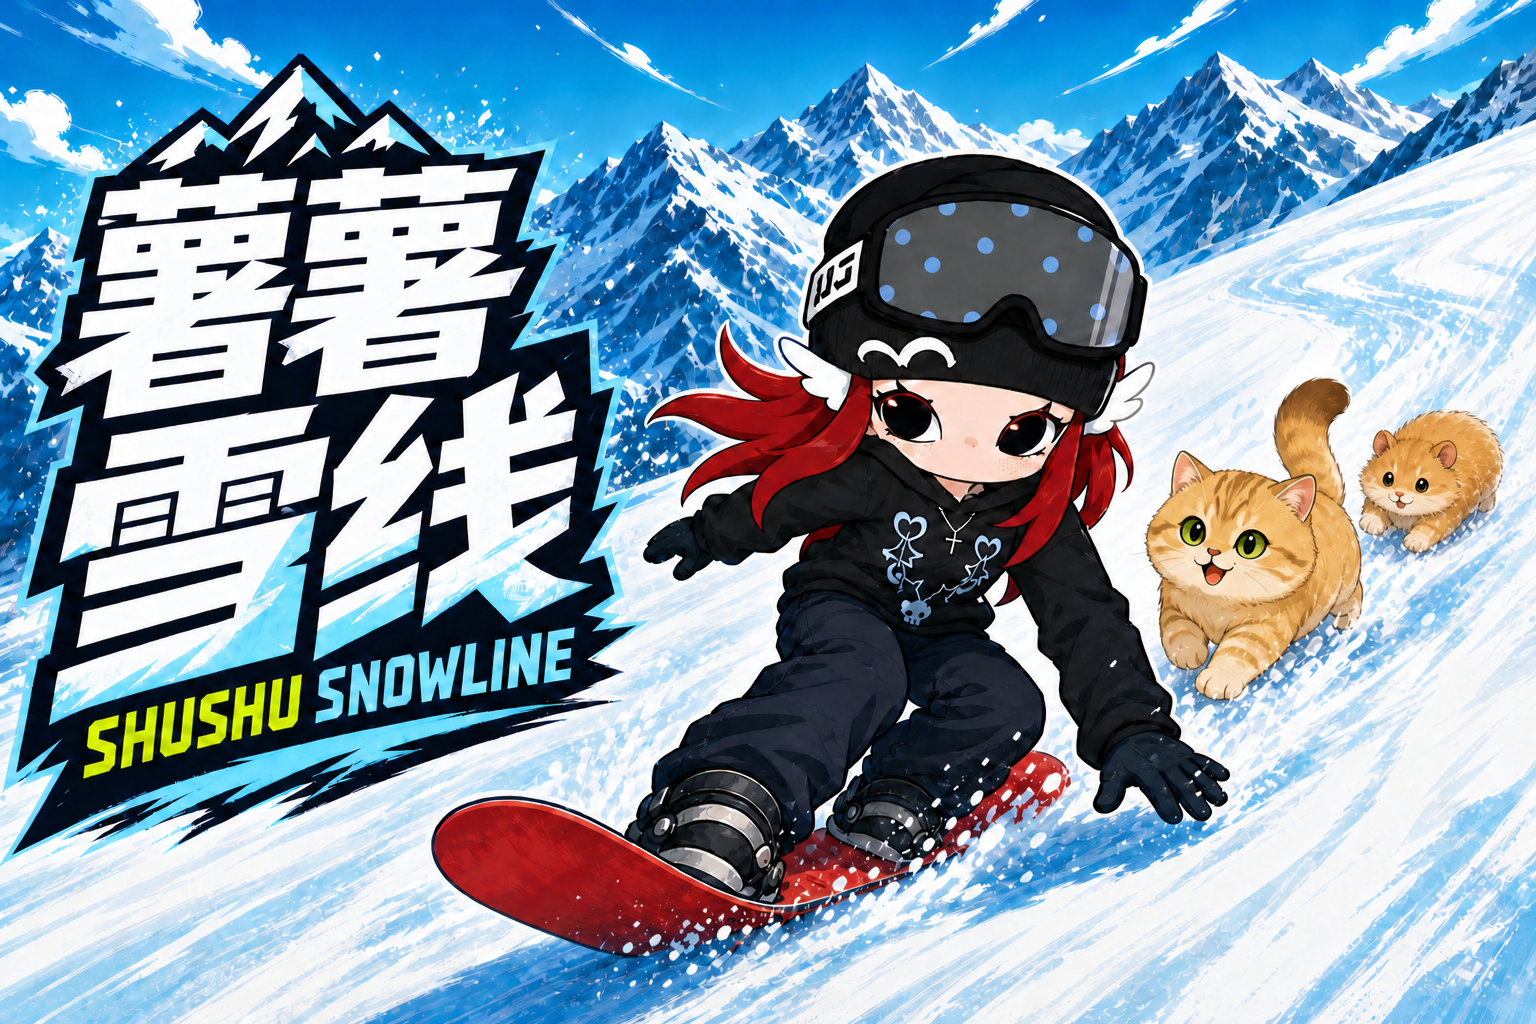
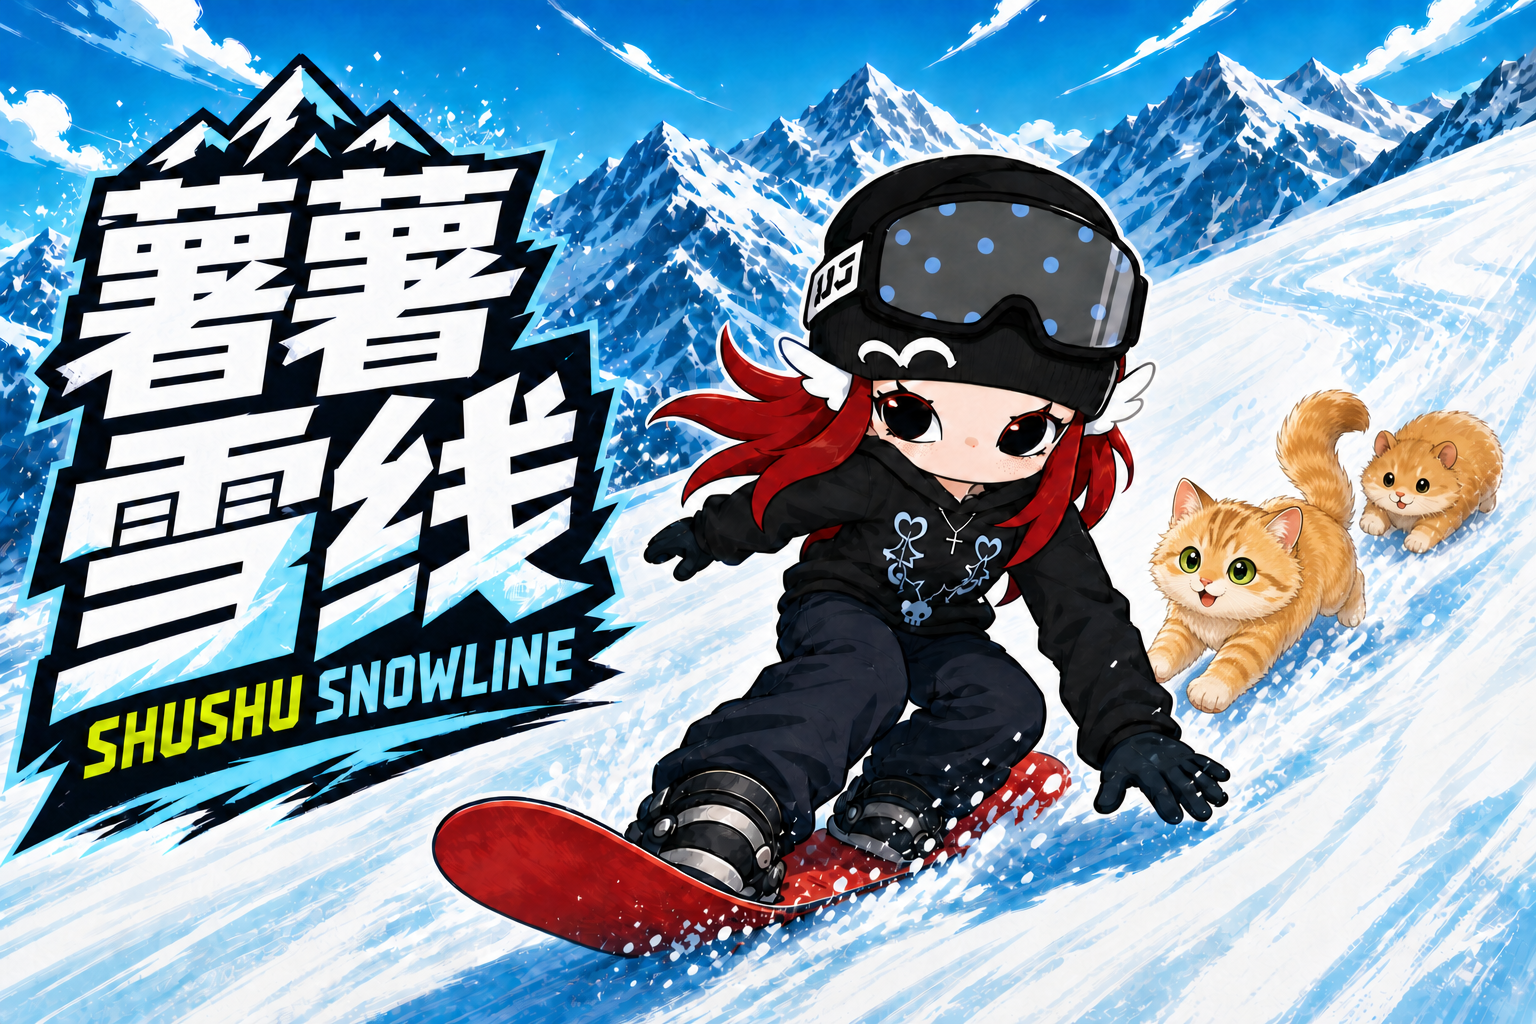
Unify golden cat pet artwork

diff --git a/web/app/game/SnowGame.tsx b/web/app/game/SnowGame.tsx
@@ -1088,7 +1088,8 @@ function drawGoldenCat(
   ctx.ellipse(1, 23 + hop, 22, 6.5, 0, 0, Math.PI * 2);
   ctx.fill();
 
-  // Thick upright tail and rounded silhouette mirror Cheche on the poster.
+  // A thick feathered tail and plush silhouette match Cheche's illustrated
+  // shop portrait while remaining readable on the scaled native canvas.
   ctx.strokeStyle = "#6f4827";
   ctx.lineWidth = 13;
   ctx.lineCap = "round";
@@ -1096,7 +1097,7 @@ function drawGoldenCat(
   ctx.moveTo(-12, 3);
   ctx.bezierCurveTo(-29, -3, -28, -25, -13, -29);
   ctx.stroke();
-  ctx.strokeStyle = "#d6a356";
+  ctx.strokeStyle = "#e2ad5e";
   ctx.lineWidth = 8.5;
   ctx.beginPath();
   ctx.moveTo(-12, 2);
@@ -1111,22 +1112,49 @@ function drawGoldenCat(
     ctx.stroke();
   }
 
-  const coat = ctx.createLinearGradient(-14, -18, 14, 20);
-  coat.addColorStop(0, "#b77836");
-  coat.addColorStop(0.38, "#d89f50");
-  coat.addColorStop(0.72, "#efc879");
-  coat.addColorStop(1, "#f7dda1");
+  const coat = ctx.createLinearGradient(-18, -18, 18, 22);
+  coat.addColorStop(0, "#c8873b");
+  coat.addColorStop(0.38, "#e2aa59");
+  coat.addColorStop(0.72, "#f2cb7d");
+  coat.addColorStop(1, "#fae4ae");
   ctx.fillStyle = coat;
   ctx.strokeStyle = "#704729";
-  ctx.lineWidth = 2.8;
+  ctx.lineWidth = 2.6;
   ctx.beginPath();
-  ctx.ellipse(-3, 2, 20, 17.5, -0.2, 0, Math.PI * 2);
+  ctx.moveTo(-24, 5);
+  ctx.quadraticCurveTo(-24, -5, -17, -10);
+  ctx.lineTo(-18, -15);
+  ctx.lineTo(-11, -12);
+  ctx.lineTo(-7, -17);
+  ctx.lineTo(-2, -12);
+  ctx.quadraticCurveTo(8, -11, 13, -3);
+  ctx.lineTo(17, 0);
+  ctx.lineTo(14, 5);
+  ctx.lineTo(18, 10);
+  ctx.lineTo(12, 12);
+  ctx.lineTo(10, 18);
+  ctx.lineTo(3, 16);
+  ctx.lineTo(-3, 20);
+  ctx.lineTo(-7, 16);
+  ctx.lineTo(-14, 18);
+  ctx.lineTo(-15, 12);
+  ctx.lineTo(-21, 11);
+  ctx.closePath();
   ctx.fill();
   ctx.stroke();
 
   ctx.fillStyle = "#fff0c9";
   ctx.beginPath();
-  ctx.ellipse(-1, 10, 12, 8, -0.15, 0, Math.PI * 2);
+  ctx.moveTo(-12, 8);
+  ctx.quadraticCurveTo(-6, 3, 1, 6);
+  ctx.lineTo(6, 5);
+  ctx.lineTo(5, 10);
+  ctx.lineTo(9, 13);
+  ctx.lineTo(3, 14);
+  ctx.lineTo(-1, 18);
+  ctx.lineTo(-5, 14);
+  ctx.lineTo(-11, 15);
+  ctx.closePath();
   ctx.fill();
 
   ctx.strokeStyle = "#9a652f";
@@ -1156,9 +1184,24 @@ function drawGoldenCat(
   ctx.fill();
   ctx.stroke();
 
-  ctx.fillStyle = "#e7b761";
+  ctx.fillStyle = "#edbe6c";
   ctx.beginPath();
-  ctx.ellipse(10, 8, 15.5, 14.5, 0.15, 0, Math.PI * 2);
+  ctx.moveTo(-2, 8);
+  ctx.lineTo(0, 2);
+  ctx.quadraticCurveTo(2, -3, 8, -5);
+  ctx.lineTo(12, -8);
+  ctx.lineTo(15, -4);
+  ctx.quadraticCurveTo(22, -1, 24, 6);
+  ctx.lineTo(28, 9);
+  ctx.lineTo(24, 13);
+  ctx.lineTo(25, 18);
+  ctx.lineTo(19, 19);
+  ctx.lineTo(15, 23);
+  ctx.lineTo(11, 20);
+  ctx.lineTo(5, 22);
+  ctx.lineTo(4, 17);
+  ctx.lineTo(-1, 14);
+  ctx.closePath();
   ctx.fill();
   ctx.stroke();
 
@@ -1166,6 +1209,16 @@ function drawGoldenCat(
   ctx.beginPath();
   ctx.ellipse(12, 14, 10, 7, 0.15, 0, Math.PI * 2);
   ctx.fill();
+
+  ctx.strokeStyle = "#9b6531";
+  ctx.lineWidth = 1.8;
+  ctx.lineCap = "round";
+  for (const [x, y, dx] of [[5, 0, 4], [10, -2, 3], [15, 0, 3]] as const) {
+    ctx.beginPath();
+    ctx.moveTo(x, y);
+    ctx.quadraticCurveTo(x + dx * 0.45, y + 3, x + dx, y + 5);
+    ctx.stroke();
+  }
 
   drawPetEye(ctx, 4.5, 6.4, 3.1, 4.1, "#9bcf49");
   drawPetEye(ctx, 15, 6.8, 3.6, 4.5, "#9bcf49");

diff --git a/web/app/game/ShopModal.tsx b/web/app/game/ShopModal.tsx
@@ -20,38 +20,15 @@ const CATEGORIES: Array<{ id: ShopCategory; label: string }> = [
 ];
 
 function PetPortrait({ id }: { id: string }) {
-  const hamster = id === "pet-digger";
-  if (hamster) {
-    return (
-      // The shared component also runs inside Capacitor, where next/image is
-      // unavailable; this local static asset is intentionally a plain image.
-      // eslint-disable-next-line @next/next/no-img-element
-      <img
-        className="pet-portrait-image"
-        src="/pets/digger-golden-hamster.png"
-        alt=""
-        aria-hidden="true"
-      />
-    );
-  }
+  const source =
+    id === "pet-digger"
+      ? "/pets/digger-golden-hamster.png"
+      : "/pets/car-golden-shaded-cat.png";
   return (
-    <span className="pet-portrait is-golden-cat">
-      <span className="pet-tail" />
-      <span className="pet-body">
-        <span className="pet-stripe pet-stripe-one" />
-        <span className="pet-stripe pet-stripe-two" />
-      </span>
-      <span className="pet-head">
-        <span className="pet-ear pet-ear-left" />
-        <span className="pet-ear pet-ear-right" />
-        <span className="pet-face-patch" />
-        <span className="pet-eye pet-eye-left" />
-        <span className="pet-eye pet-eye-right" />
-        <span className="pet-nose" />
-      </span>
-      <span className="pet-paw pet-paw-left" />
-      <span className="pet-paw pet-paw-right" />
-    </span>
+    // The shared component also runs inside Capacitor, where next/image is
+    // unavailable; these local static assets intentionally use a plain image.
+    // eslint-disable-next-line @next/next/no-img-element
+    <img className="pet-portrait-image" src={source} alt="" aria-hidden="true" />
   );
 }
 

diff --git a/web/public/sw.js b/web/public/sw.js
@@ -1,4 +1,4 @@
-const CACHE_VERSION = "shushu-snowline-v2";
+const CACHE_VERSION = "shushu-snowline-v3";
 const CORE_ASSETS = [
   "/",
   "/manifest.webmanifest",
@@ -6,7 +6,8 @@ const CORE_ASSETS = [
   "/icons/icon-192.png",
   "/icons/icon-512.png",
   "/icons/icon-512-maskable.png",
-  "/pets/digger-golden-hamster.png"
+  "/pets/digger-golden-hamster.png",
+  "/pets/car-golden-shaded-cat.png"
 ];
 
 self.addEventListener("install", (event) => {

diff --git a/web/app/game/shop.ts b/web/app/game/shop.ts
@@ -407,9 +407,9 @@ export const SHOP_ITEMS: ShopItem[] = [
     name: "车车",
     category: "pet",
     price: 520,
-    description: "金渐层猫 · 跟随时开局获得一次护盾",
-    color: "#d9ad67",
-    accent: "#70543d",
+    description: "毛茸茸金渐层幼猫 · 跟随时开局获得一次护盾",
+    color: "#e2ad5e",
+    accent: "#fff0ce",
   },
 ];
 

diff --git a/spec.md b/spec.md
@@ -1137,3 +1137,30 @@ D:\AI\snow-repo\
 2. 商城图片、文字描述和游戏内挖挖机都明确呈现为毛茸茸的金丝熊。
 3. 挖挖机的 +25% 薯薯币能力、购买状态和跟随状态保持兼容。
 4. 手机版宠物身后不再出现连续小圆点，改为柔和、连续且短促的雪面划痕。
+
+## 50. 车车金渐层统一卡通形象
+
+### 50.1 双宠物统一视觉语言
+
+- 车车改为与第 49.2 节金丝熊挖挖机相同完成度的卡通插画风，不再在商城中使用简化 CSS 拼接造型。
+- 两只宠物图片统一使用明快蓝白雪坡、斜向下三分之四奔跑视角、暖棕细描边、柔和赛璐璐明暗和清晰的小尺寸面部高光。
+- 图片构图、主体占比、雪面动势和圆角预览框保持一致，使宠物商城卡片像同一套角色资产。
+
+### 50.2 车车造型
+
+- 车车为毛茸茸的金渐层幼猫：圆润头部、短口鼻、奶油白口鼻与胸口、暖金色渐层被毛、额头和四肢的浅棕虎斑、绿色高光大眼、粉色鼻子和蓬松上翘尾巴。
+- 身体保持猫科比例，必须有明显三角耳、四肢和长尾，不能画成仓鼠式圆球、橘色普通短毛猫或写实成年猫。
+- 商城描述改为“毛茸茸金渐层幼猫”，继续明确“跟随时开局获得一次护盾”。
+- 游戏内 Canvas 版本增加蓬松轮廓、分层金色毛发、奶油胸口和更清楚的虎斑，同时保持现有尺寸、跟随路线与动作节奏。
+
+### 50.3 宣传海报
+
+- 宣传海报中的车车同步替换为统一后的金渐层卡通形象。
+- 仅替换金渐层猫，不改变主角、金丝熊挖挖机、标题文字、雪板、雪山背景、构图和整体配色。
+
+### 50.4 功能兼容与验收
+
+1. 商城中的车车和挖挖机采用同样的方形雪坡插画预览，不再一张是图片、一张是 CSS 简图。
+2. 游戏内车车能辨认出绿色眼睛、金渐层、奶油口鼻胸口、虎斑和蓬松上翘尾巴。
+3. 车车的一次性透明护盾、购买状态、携带状态和旧存档 ID `pet-car` 保持不变。
+4. 海报中的车车与商城图片一致，且中文标题“薯薯雪线”和英文“SHUSHU SNOWLINE”保持正确。
